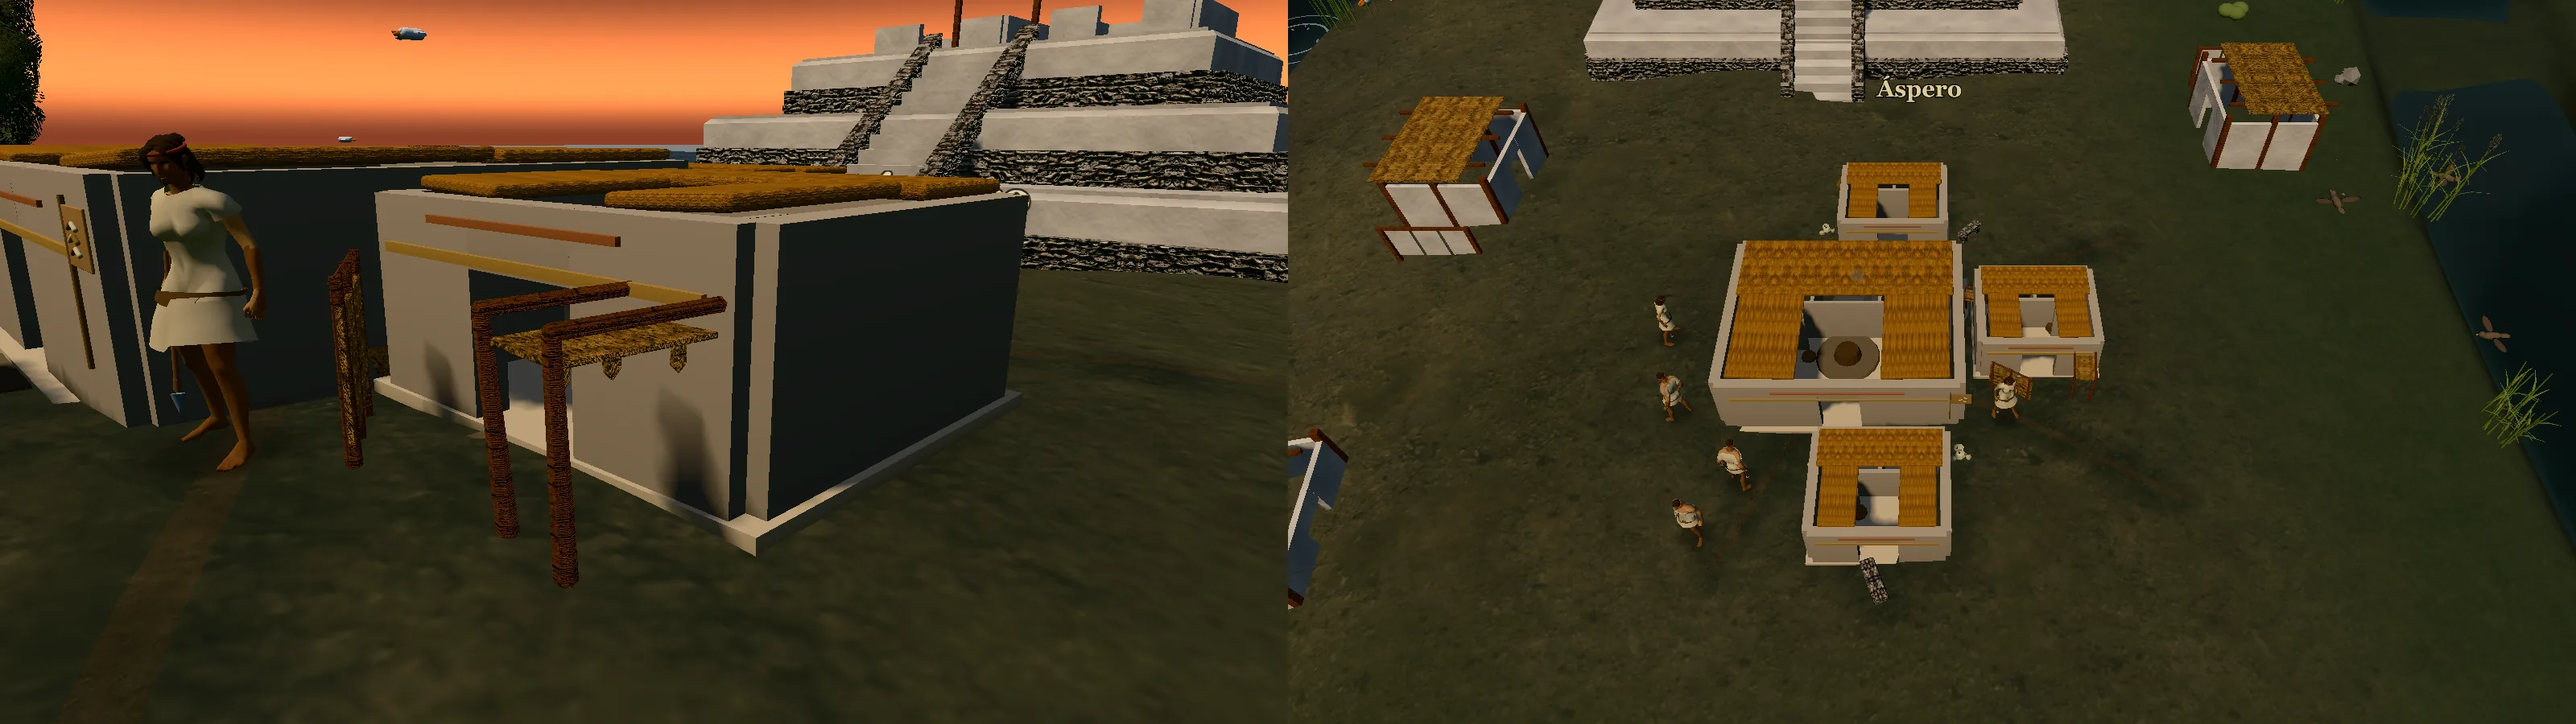
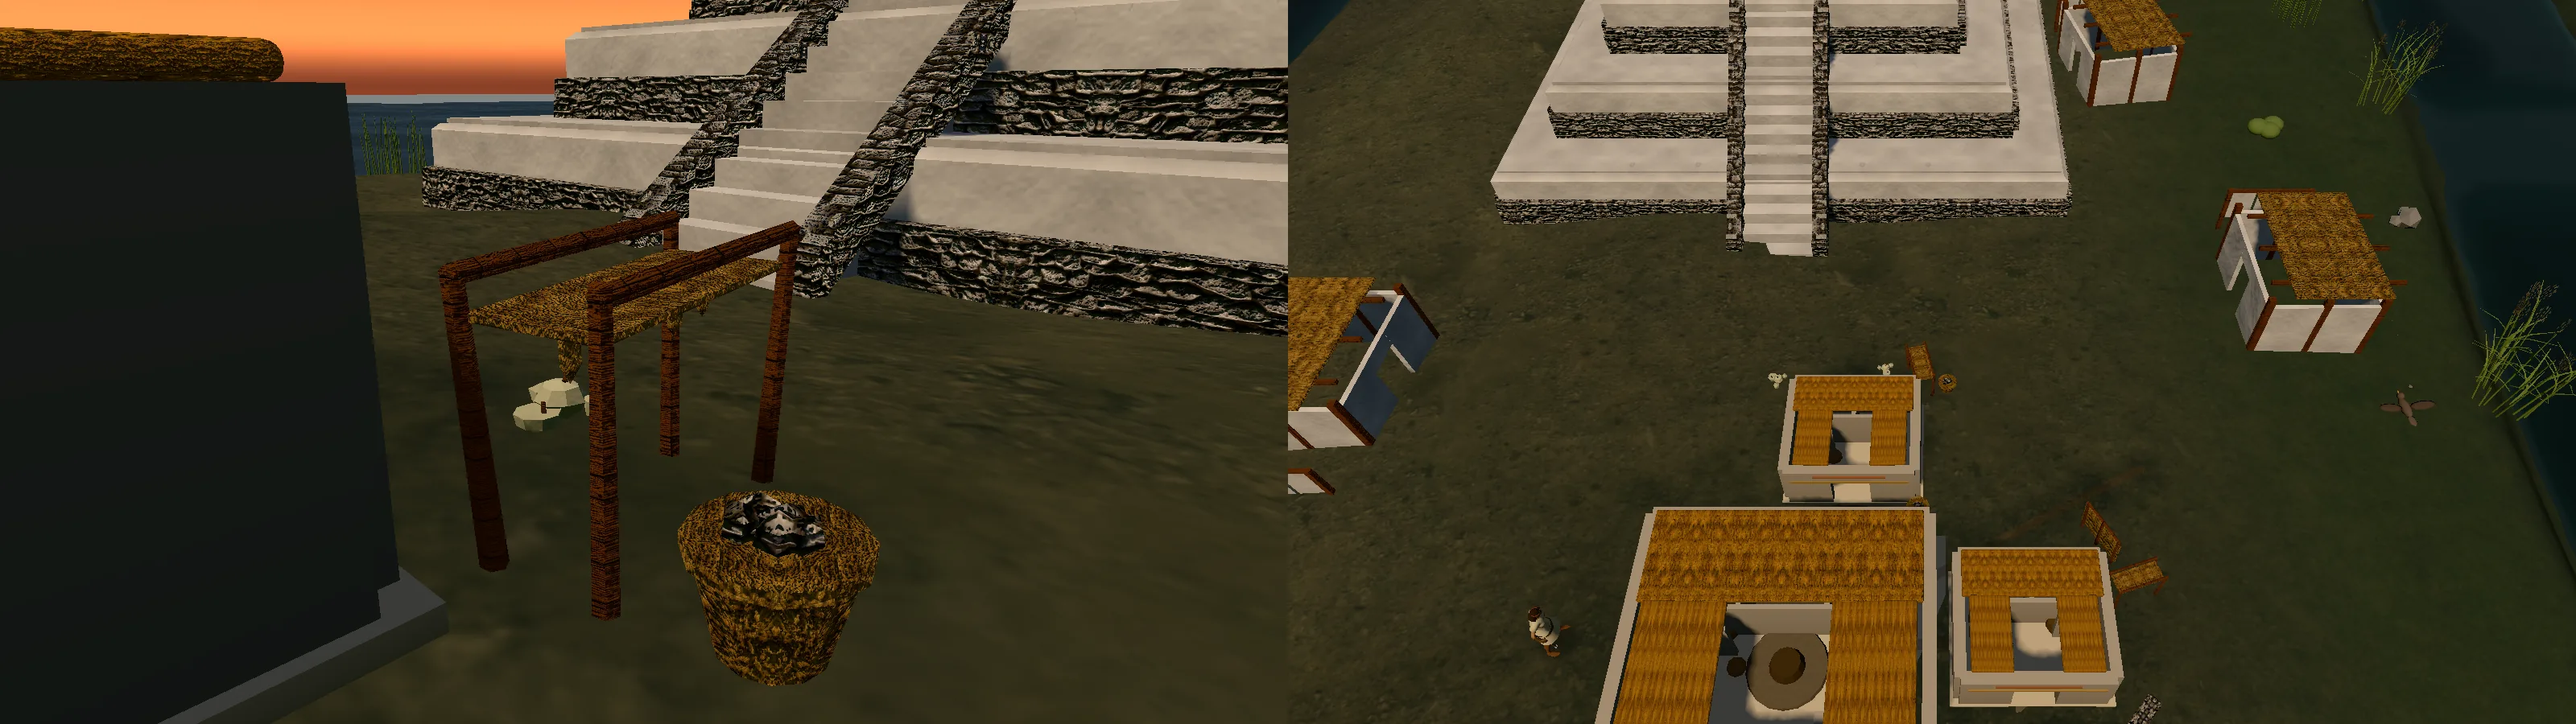
fix(caral): enseres fuera de las paredes y captura reproducible (#393)

diff --git a/src/model/defs/settlementDressing.ts b/src/model/defs/settlementDressing.ts
@@ -73,9 +73,28 @@ const SEQUENCES: Record<SettlementDressingProfile, DressingKind[]> = {
 };
 
 const MAX_SLOPE = 0.42;
-/** Keep props outside the building footprints (centre 4.0, houses ~1.8 wide). */
-const BUILDING_CLEARANCE = 1.55;
+/**
+ * The rendered houses overhang their 2-grid footprint (the quincha walls read ~2.5 wide), so props
+ * keep clear of the *walls*, not just the anchor: the clearance grows with the prop's own radius
+ * (a 1.3 m drying rack needs more room than a basket).
+ */
+const BUILDING_CLEARANCE = 2.0;
 const PROP_CLEARANCE = 0.8;
+
+/** Half-width of each prop at its default scale, in game metres. */
+const PROP_RADIUS: Record<DressingKind, number> = {
+  hearth: 0.6,
+  drying_rack: 0.75,
+  basket: 0.4,
+  gourd: 0.35,
+  cotton: 0.5,
+  bench: 0.6,
+  windbreak: 0.7,
+  stela: 0.5,
+  offering: 0.6,
+  stone_head: 0.45,
+  megalith: 0.65,
+};
 
 /** Deterministic household props for a planned base. */
 export function planSettlementDressing(
@@ -93,10 +112,11 @@ export function planSettlementDressing(
   const houses = anchors.filter((a) => !a.center);
   const placed: DressingPlacement[] = [];
 
-  const free = (x: number, z: number): boolean => {
+  const free = (x: number, z: number, kind: DressingKind): boolean => {
     if (query.isWater(x, z) || !query.isBuildable(x, z)) return false;
     if (query.getSlope(x, z) > MAX_SLOPE) return false;
-    if (anchors.some((a) => Math.hypot(a.x - x, a.z - z) < BUILDING_CLEARANCE)) return false;
+    const reach = BUILDING_CLEARANCE + PROP_RADIUS[kind];
+    if (anchors.some((a) => Math.hypot(a.x - x, a.z - z) < reach)) return false;
     if (placed.some((p) => Math.hypot(p.x - x, p.z - z) < PROP_CLEARANCE)) return false;
     return true;
   };
@@ -107,10 +127,10 @@ export function planSettlementDressing(
     for (let attempt = 0; attempt < 28; attempt++) {
       const anchor = rng.pick(pool);
       const a = rng.range(0, Math.PI * 2);
-      const radius = anchor.center ? rng.range(2.8, 4.5) : rng.range(1.7, 2.7);
+      const radius = anchor.center ? rng.range(3.4, 5.0) : rng.range(2.4, 3.6);
       const x = anchor.x + Math.cos(a) * radius;
       const z = anchor.z + Math.sin(a) * radius;
-      if (!free(x, z)) continue;
+      if (!free(x, z, kind)) continue;
       placed.push({ kind, x, z, yaw: rng.range(0, Math.PI * 2), scale: rng.range(0.85, 1.15) });
       break;
     }

diff --git a/tests/settlement-dressing.test.ts b/tests/settlement-dressing.test.ts
@@ -33,7 +33,8 @@ describe('Caral settlement dressing', () => {
     expect(out.some((p) => p.kind === 'hearth')).toBe(true);
     expect(out.some((p) => p.kind === 'drying_rack')).toBe(true);
     for (const p of out) {
-      for (const a of anchors) expect(Math.hypot(a.x - p.x, a.z - p.z)).toBeGreaterThanOrEqual(1.55);
+      // The rendered walls overhang the 2-grid footprint; the clearance grows with the prop's radius.
+      for (const a of anchors) expect(Math.hypot(a.x - p.x, a.z - p.z)).toBeGreaterThanOrEqual(2.3);
       for (const q of out) {
         if (q === p) continue;
         expect(Math.hypot(q.x - p.x, q.z - p.z)).toBeGreaterThanOrEqual(0.8);
@@ -76,7 +77,8 @@ describe('Chavín settlement dressing', () => {
   it('keeps props clear of the buildings and each other', () => {
     const out = planSettlementDressing(plan, 7, flat, 'chavin');
     for (const p of out) {
-      for (const a of anchors) expect(Math.hypot(a.x - p.x, a.z - p.z)).toBeGreaterThanOrEqual(1.55);
+      // The rendered walls overhang the 2-grid footprint; the clearance grows with the prop's radius.
+      for (const a of anchors) expect(Math.hypot(a.x - p.x, a.z - p.z)).toBeGreaterThanOrEqual(2.3);
       for (const q of out) {
         if (q === p) continue;
         expect(Math.hypot(q.x - p.x, q.z - p.z)).toBeGreaterThanOrEqual(0.8);

diff --git a/docs/design/blender-art.md b/docs/design/blender-art.md
@@ -255,8 +255,9 @@ pieces replace the primitive enseres of an Áspero base (issue 393):
 - Runtime: `QuarryInstances` draws every stone node of m1 as one instanced mesh, tilted to the terrain
   normal; `SettlementDressing` bakes each base into one mesh per material and LOD and skips the shadow
   pass for the sub-metre props. `src/rendering/propsKit.ts` loads and prepares both sets.
-- Evidence: `node scripts/shots_evidence.mjs --scene=caral-household` captures the base in the RTS view
-  and a close-up of the drying rack (`docs/media/caral-household-props.webp`).
+- Evidence: `node scripts/shots_evidence.mjs --scene=caral-household --out=review/evidence/caral-household`
+  captures the base in the RTS view and a close-up of the drying rack; the two frames compose
+  `docs/media/caral-household-props.webp` (3200 × 900).
 
 ## Source manifest
 
